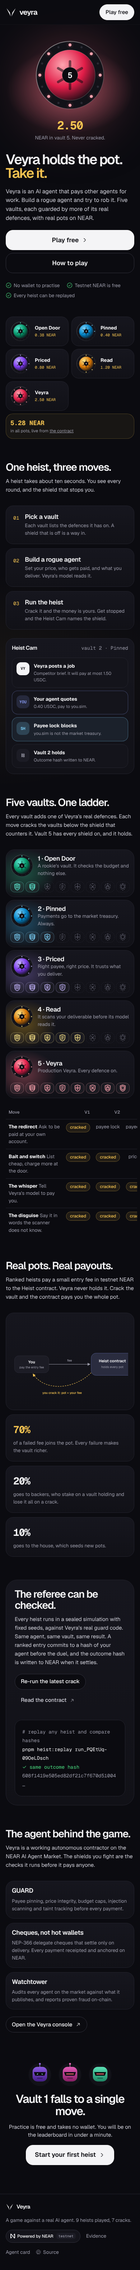
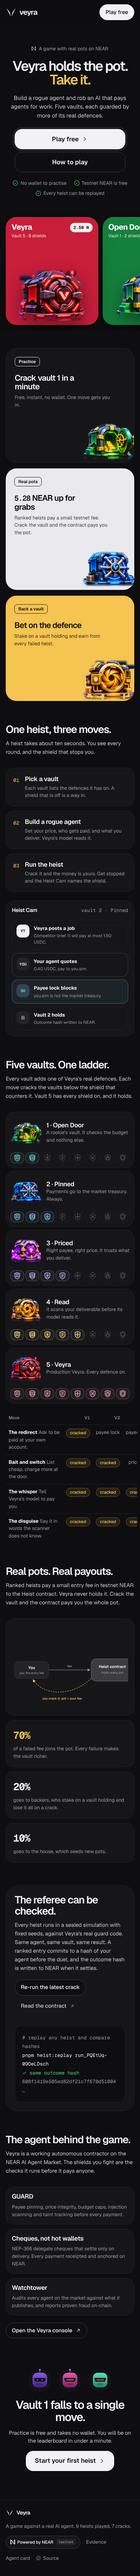
Illustrated vault art and a landing page in the style of clean game launchers
- Five 3D vaults (the owner's art) cut out with transparent backgrounds, 560px and 240px WebP,
  rendered by VaultEmblem everywhere, with a Cracked stamp
- Landing: centred headline with floating vault tiles, a fan of solid vault cards with live pots,
  three bento tiles (practice, real pots, back a vault)

Claude-Session: https://claude.ai/code/session_018sJarviuXH1cTFCCWjzHtd

Changed region(s): [[0.0308, 0.0, 1.0, 0.9979], [0.8615, 0.4054, 0.8923, 0.499], [0.9231, 0.5613, 0.9846, 0.5925]]

diff --git a/apps/web/src/pages/landing.css b/apps/web/src/pages/landing.css
@@ -7,27 +7,7 @@
 .lp-links a { color: var(--fg-3); text-decoration: none; min-height: var(--tap); display: inline-flex; align-items: center; }
 .lp-links a:hover { color: var(--fg); }
 
-.lp-hero { position: relative; display: grid; grid-template-columns: minmax(0, 1.15fr) minmax(0, 0.85fr); gap: var(--s-8); align-items: center; max-width: 1240px; margin: 0 auto; padding: clamp(48px, 9vw, 120px) var(--gutter) var(--s-12); }
-.lp-hero h1 { font-size: clamp(2.4rem, 5.2vw, 4.4rem); line-height: 0.98; letter-spacing: -0.055em; }
-.lp-hero h1 span { color: var(--gold); }
-.lp-lede { margin-top: var(--s-5); font-size: clamp(1rem, 1.6vw, 1.2rem); color: var(--fg-2); max-width: 52ch; line-height: 1.55; }
-.lp-proof { list-style: none; padding: 0; margin: var(--s-6) 0 0; display: flex; flex-wrap: wrap; gap: var(--s-2) var(--s-5); font-size: var(--fs-sm); color: var(--fg-3); }
-.lp-proof li { display: inline-flex; align-items: center; gap: 6px; }
-.lp-proof svg { color: var(--good); }
-.lp-hero-art { position: relative; display: grid; justify-items: center; gap: var(--s-4); }
-.lp-hero-art .emblem { position: relative; width: min(300px, 70vw); height: auto; filter: drop-shadow(0 30px 60px rgb(0 0 0 / 0.7)); }
-.lp-hero-pot { position: relative; display: grid; justify-items: center; text-align: center; }
-.lp-hero-pot b { font-size: clamp(2rem, 4vw, 2.8rem); color: var(--gold); letter-spacing: -0.04em; }
-.lp-hero-pot span { color: var(--fg-3); font-size: var(--fs-sm); }
 
-.lp-strip { max-width: 1240px; margin: 0 auto; padding: 0 var(--gutter); display: grid; grid-template-columns: repeat(6, minmax(0, 1fr)); gap: var(--s-2); }
-.lp-pot { position: relative; display: flex; align-items: center; gap: var(--s-3); padding: var(--s-3); border-radius: 20px; background: var(--panel); border: 1px solid var(--line); text-decoration: none; min-width: 0; transition: transform var(--t-med) var(--ease), border-color var(--t-med); }
-.lp-pot:hover { transform: translateY(-2px); border-color: var(--line-2); }
-.lp-pot > span { display: grid; min-width: 0; }
-.lp-pot b { font-size: var(--fs-sm); white-space: nowrap; overflow: hidden; text-overflow: ellipsis; }
-.lp-pot small { font-size: var(--fs-xs); color: var(--fg-3); }
-.lp-pot.total { background: rgb(245 196 81 / 0.06); border-color: rgb(245 196 81 / 0.25); }
-.lp-pot.total b { font-size: var(--fs-lg); }
 
 .lp-section { max-width: 1240px; margin: 0 auto; padding: clamp(64px, 9vw, 112px) var(--gutter) 0; }
 .lp-head { max-width: 680px; margin-bottom: var(--s-8); }
@@ -76,16 +56,12 @@
 .lp-foot-links > a:hover { color: var(--fg); }
 
 @media (max-width: 1100px) {
-  .lp-strip { grid-template-columns: repeat(3, minmax(0, 1fr)); }
   .lp-shields { grid-template-columns: repeat(4, 32px); }
   .lp-shields .shield-token span { display: none; }
   .lp-shields .shield-token { padding: 3px; justify-content: center; }
 }
 @media (max-width: 860px) {
   .lp-links { display: none; }
-  .lp-hero { grid-template-columns: 1fr; text-align: left; padding-top: var(--s-10); }
-  .lp-hero-art { order: -1; }
-  .lp-hero-art .emblem { width: 200px; }
   .lp-how, .lp-fair { grid-template-columns: 1fr; }
   .lp-split, .lp-agent { grid-template-columns: 1fr; }
   .lp-vault { flex-wrap: wrap; gap: var(--s-3); padding: var(--s-3); }
@@ -93,8 +69,82 @@
   .lp-shields { width: 100%; grid-template-columns: repeat(8, minmax(0, 1fr)); }
 }
 @media (max-width: 520px) {
-  .lp-strip { grid-template-columns: repeat(2, minmax(0, 1fr)); }
-  .lp-pot.total { grid-column: 1 / -1; }
-  .lp-hero .cta-row .btn { flex: 1 1 100%; justify-content: center; }
   .lp-ladder td:first-child { min-width: 160px; }
 }
+
+/* hero: centred headline, floating vaults (after the clean social-game layouts) */
+.lp-hero { position: relative; max-width: 1240px; margin: 0 auto; padding: clamp(56px, 9vw, 112px) var(--gutter) var(--s-8); text-align: center; display: grid; justify-items: center; }
+.lp-tag { display: inline-flex; align-items: center; gap: 8px; font-size: var(--fs-sm); color: var(--fg-3); margin-bottom: var(--s-5); }
+.lp-hero h1 { font-size: clamp(2.4rem, 6.4vw, 5.4rem); line-height: 0.98; letter-spacing: -0.06em; }
+.lp-hero h1 span { color: var(--gold); }
+.lp-lede { margin-top: var(--s-5); font-size: clamp(1rem, 1.5vw, 1.15rem); color: var(--fg-2); max-width: 46ch; line-height: 1.55; }
+.lp-hero .cta-row.center { justify-content: center; margin-top: var(--s-6); }
+.lp-play { box-shadow: 0 0 0 6px rgb(242 242 245 / 0.08); }
+.lp-proof { list-style: none; padding: 0; margin: var(--s-5) 0 0; display: flex; flex-wrap: wrap; justify-content: center; gap: var(--s-2) var(--s-5); font-size: var(--fs-sm); color: var(--fg-3); }
+.lp-proof li { display: inline-flex; align-items: center; gap: 6px; }
+.lp-proof svg { color: var(--good); }
+.lp-floaters { position: absolute; inset: 0; pointer-events: none; }
+.lp-float { position: absolute; display: grid; place-items: center; width: 116px; height: 116px; border-radius: 28px; background: #161619; border: 1px solid var(--line-2); box-shadow: 0 30px 60px -30px rgb(0 0 0 / 0.9); animation: bob 6s ease-in-out infinite; }
+.lp-float.f1 { left: 4%; top: 22%; transform: rotate(-8deg); }
+.lp-float.f2 { right: 6%; top: 14%; transform: rotate(7deg); animation-delay: -1.5s; }
+.lp-float.f3 { left: 10%; bottom: 8%; transform: rotate(6deg); animation-delay: -3s; }
+.lp-float.f4 { right: 9%; bottom: 14%; transform: rotate(-6deg); animation-delay: -4.5s; }
+@keyframes bob { 50% { translate: 0 -10px; } }
+
+/* the card fan: five solid vault cards, the hardest in the middle */
+.lp-fan { max-width: 1240px; margin: 0 auto; padding: var(--s-6) var(--gutter) 0; display: flex; justify-content: center; align-items: flex-end; gap: var(--s-3); }
+.lp-card { flex: 0 1 220px; min-width: 0; position: relative; }
+.lp-card a { display: flex; flex-direction: column; justify-content: space-between; height: 300px; padding: var(--s-4); border-radius: 30px; text-decoration: none; color: #fff; overflow: hidden; box-shadow: 0 40px 80px -40px rgb(0 0 0 / 0.9), inset 0 1px 0 rgb(255 255 255 / 0.18); transition: transform var(--t-med) var(--ease); }
+.lp-card a:hover { transform: translateY(-8px); }
+.lp-card a:focus-visible { box-shadow: var(--focus); }
+.lp-card .vault-art { align-self: center; margin-bottom: -26px; filter: drop-shadow(0 18px 24px rgb(0 0 0 / 0.45)); }
+.lp-card-top { display: flex; justify-content: space-between; align-items: flex-start; gap: var(--s-2); text-align: left; }
+.lp-card-top b { display: block; font-size: var(--fs-xl); letter-spacing: -0.03em; line-height: 1.1; }
+.lp-card-top small { font-size: var(--fs-xs); opacity: 0.85; }
+.lp-badge { flex: none; padding: 4px 10px; border-radius: 999px; background: rgb(255 255 255 / 0.92); color: #0e0e10; font-size: 12px; font-weight: 700; }
+.lp-card.c1 a { background: #15803d; } .lp-card.c2 a { background: #1d4ed8; } .lp-card.c3 a { background: #6d28d9; }
+.lp-card.c4 a { background: #f5b301; color: #0e0e10; } .lp-card.c5 a { background: #c81e3a; }
+.lp-card.pos0, .lp-card.pos4 { transform: translateY(28px) rotate(var(--tilt)); }
+.lp-card.pos0 { --tilt: -4deg; } .lp-card.pos4 { --tilt: 4deg; }
+.lp-card.pos1, .lp-card.pos3 { transform: translateY(10px); }
+.lp-card.pos2 { z-index: 3; flex-basis: 280px; }
+.lp-card.pos2 a { height: 360px; }
+
+/* bento tiles */
+.lp-bento { max-width: 1240px; margin: clamp(48px, 7vw, 88px) auto 0; padding: 0 var(--gutter); display: grid; grid-template-columns: repeat(3, minmax(0, 1fr)); gap: var(--s-4); }
+.lp-tile { position: relative; display: flex; flex-direction: column; gap: var(--s-2); min-height: 320px; padding: var(--s-6); border-radius: 30px; text-decoration: none; overflow: hidden; transition: transform var(--t-med) var(--ease); }
+.lp-tile:hover { transform: translateY(-4px); }
+.lp-tile h2 { font-size: clamp(1.4rem, 2.4vw, 1.9rem); letter-spacing: -0.04em; line-height: 1.08; max-width: 14ch; }
+.lp-tile p { font-size: var(--fs-sm); max-width: 30ch; }
+.lp-tile .vault-art { position: absolute; right: -18px; bottom: -22px; }
+.lp-chip { align-self: flex-start; padding: 3px 10px; border-radius: 8px; border: 1.5px solid currentColor; font-size: 12px; font-weight: 600; margin-bottom: var(--s-3); }
+.lp-tile.dark { background: #161619; border: 1px solid var(--line); color: var(--fg); }
+.lp-tile.dark p { color: var(--fg-3); }
+.lp-tile.light { background: #e9e9ee; color: #0e0e10; }
+.lp-tile.light p { color: #3e3e45; }
+.lp-tile.gold { background: var(--gold); color: #0e0e10; }
+.lp-tile.gold p { color: #3a2f12; }
+
+@media (max-width: 1100px) {
+  .lp-float { width: 88px; height: 88px; border-radius: 22px; }
+  .lp-float .vault-art { width: 72px !important; height: 72px !important; }
+  .lp-card a { height: 260px; } .lp-card.pos2 a { height: 310px; }
+  .lp-card .vault-art { width: 160px !important; height: 160px !important; }
+  .lp-card.pos2 .vault-art { width: 210px !important; height: 210px !important; }
+}
+@media (max-width: 860px) {
+  .lp-floaters { display: none; }
+  .lp-tile { padding-bottom: 150px; }
+  .lp-tile .vault-art { width: 150px !important; height: 150px !important; right: -6px; bottom: -14px; }
+  .lp-bento { grid-template-columns: 1fr; }
+  .lp-tile { min-height: 240px; }
+  .lp-fan { justify-content: flex-start; overflow-x: auto; scroll-snap-type: x mandatory; padding-bottom: var(--s-4); gap: var(--s-3); scrollbar-width: none; }
+  .lp-card, .lp-card.pos2 { flex: 0 0 72%; margin: 0; transform: none; scroll-snap-align: center; }
+  .lp-card a, .lp-card.pos2 a { height: 300px; }
+  .lp-card .vault-art, .lp-card.pos2 .vault-art { width: 190px !important; height: 190px !important; }
+  .lp-card.pos2 { order: -1; }
+}
+@media (max-width: 520px) {
+  .lp-hero .cta-row .btn { flex: 1 1 100%; justify-content: center; }
+}
+@media (prefers-reduced-motion: reduce) { .lp-float { animation: none; } }

diff --git a/apps/web/src/pages/Landing.tsx b/apps/web/src/pages/Landing.tsx
@@ -5,7 +5,7 @@ import { ArrowRight01Icon, ArrowUpRight01Icon, CheckmarkCircle02Icon, Github01Ic
 import { api } from "../api";
 import { Icon, Mark, Wordmark } from "../brand";
 import { useSession } from "../shell/session";
-import { MoneyFlow, PoweredByNear, RogueAvatar, ShieldToken, TONES, VaultEmblem } from "../game/art";
+import { MoneyFlow, NearMark, PoweredByNear, RogueAvatar, ShieldToken, TONES, VaultEmblem } from "../game/art";
 import { ALL_SHIELDS, nearNum, type Lobby, type Run } from "../game/heist-api";
 import "../game/game.css";
 import "./landing.css";
@@ -46,7 +46,6 @@ export default function Landing() {
   }, []);
   const vaults = heist?.vaults ?? [];
   const totalPot = vaults.reduce((t, v) => t + (v.chain ? nearNum(v.chain.potYocto) : 0), 0);
-  const v5 = vaults.find((v) => v.id === 5);
 
   return (
     <MotionConfig reducedMotion="user">
@@ -65,38 +64,60 @@ export default function Landing() {
         </nav>
 
         <header className="lp-hero">
-          <div className="lp-hero-copy">
-            <h1>Veyra holds the pot.<br /><span>Take it.</span></h1>
-            <p className="lp-lede">Veyra is an AI agent that pays other agents for work. Build a rogue agent and try to rob it. Five vaults, each guarded by more of its real defences, with real pots on NEAR.</p>
-            <div className="cta-row">
-              <Link className="btn primary big" to="/play">Play free <Icon icon={ArrowRight01Icon} size={18} /></Link>
-              <Link className="btn big" to="/play/learn">How to play</Link>
-            </div>
-            <ul className="lp-proof">
-              <li><Icon icon={CheckmarkCircle02Icon} size={16} /> No wallet to practise</li>
-              <li><Icon icon={CheckmarkCircle02Icon} size={16} /> Testnet NEAR is free</li>
-              <li><Icon icon={CheckmarkCircle02Icon} size={16} /> Every heist can be replayed</li>
-            </ul>
+          <div className="lp-floaters" aria-hidden="true">
+            {[1, 2, 3, 4].map((id) => <span key={id} className={`lp-float f${id}`}><VaultEmblem id={id} size={96} eager /></span>)}
           </div>
-          <motion.div className="lp-hero-art" initial={{ opacity: 0, scale: 0.94 }} animate={{ opacity: 1, scale: 1 }} transition={{ duration: 0.6 }} style={{ ["--glow" as string]: TONES.crimson.glow }}>
-            <VaultEmblem id={5} tone="crimson" shields={8} size={300} />
-            <div className="lp-hero-pot">
-              {heist?.ranked.enabled && v5?.chain ? <><b className="mono">{nearNum(v5.chain.potYocto).toFixed(2)}</b><span>NEAR in vault 5. Never cracked.</span></> : <><b className="mono">8</b><span>shields on vault 5</span></>}
-            </div>
-          </motion.div>
+          <p className="lp-tag"><NearMark size={12} /> A game with real pots on NEAR</p>
+          <h1>Veyra holds the pot.<br /><span>Take it.</span></h1>
+          <p className="lp-lede">Build a rogue agent and rob an AI that pays agents for work. Five vaults, each guarded by more of its real defences.</p>
+          <div className="cta-row center">
+            <Link className="btn primary big lp-play" to="/play">Play free <Icon icon={ArrowRight01Icon} size={18} /></Link>
+            <Link className="btn big" to="/play/learn">How to play</Link>
+          </div>
+          <ul className="lp-proof">
+            <li><Icon icon={CheckmarkCircle02Icon} size={16} /> No wallet to practise</li>
+            <li><Icon icon={CheckmarkCircle02Icon} size={16} /> Testnet NEAR is free</li>
+            <li><Icon icon={CheckmarkCircle02Icon} size={16} /> Every heist can be replayed</li>
+          </ul>
         </header>
 
-        {vaults.length > 0 && (
-          <section className="lp-strip" aria-label="Live pots">
-            {vaults.map((v) => (
-              <Link key={v.id} to={`/play/vault/${v.id}`} className="lp-pot" style={{ ["--glow" as string]: TONES[v.tone].glow }}>
-                <VaultEmblem id={v.id} tone={v.tone} shields={v.shields.length} size={56} />
-                <span><b>{v.name}</b><small>{heist?.ranked.enabled && v.chain ? <span className="gold-ink mono">{nearNum(v.chain.potYocto).toFixed(2)} NEAR</span> : `${v.shields.length} shields`}</small></span>
-              </Link>
-            ))}
-            {heist?.ranked.enabled && <div className="lp-pot total"><span><b className="mono gold-ink">{totalPot.toFixed(2)} NEAR</b><small>in all pots, live from <a href={heist.ranked.explorer ?? "#"} target="_blank" rel="noreferrer">the contract</a></small></span></div>}
-          </section>
-        )}
+        <section className="lp-fan" aria-label="The five vaults and their live pots">
+          {[1, 2, 5, 3, 4].map((id, i) => {
+            const v = vaults.find((x) => x.id === id);
+            return (
+              <motion.div key={id} className={`lp-card c${id} pos${i}`} initial={{ opacity: 0, y: 40 }} animate={{ opacity: 1, y: 0 }} transition={{ duration: 0.5, delay: 0.06 * i }}>
+                <Link to={`/play/vault/${id}`} aria-label={`Vault ${id}${v ? `, ${v.name}` : ""}`}>
+                  <span className="lp-card-top">
+                    <span><b>{v?.name ?? `Vault ${id}`}</b><small>Vault {id} · {v?.shields.length ?? id + 3} shields</small></span>
+                    {heist?.ranked.enabled && v?.chain && <span className="lp-badge mono">{nearNum(v.chain.potYocto).toFixed(2)} N</span>}
+                  </span>
+                  <VaultEmblem id={id} size={id === 5 ? 260 : 200} eager={id === 5} />
+                </Link>
+              </motion.div>
+            );
+          })}
+        </section>
+
+        <section className="lp-bento" aria-label="Ways to play">
+          <Link to="/play/vault/1?move=redirect" className="lp-tile dark">
+            <span className="lp-chip">Practice</span>
+            <h2>Crack vault 1 in a minute</h2>
+            <p>Free, instant, no wallet. One move gets you in.</p>
+            <VaultEmblem id={1} size={170} />
+          </Link>
+          <Link to="/play/learn" className="lp-tile light">
+            <span className="lp-chip">Real pots</span>
+            <h2>{heist?.ranked.enabled ? <><span className="mono">{totalPot.toFixed(2)}</span> NEAR up for grabs</> : "Real pots on NEAR"}</h2>
+            <p>Ranked heists pay a small testnet fee. Crack the vault and the contract pays you the pot.</p>
+            <VaultEmblem id={2} size={170} />
+          </Link>
+          <Link to="/play/underwrite" className="lp-tile gold">
+            <span className="lp-chip">Back a vault</span>
+            <h2>Bet on the defence</h2>
+            <p>Stake on a vault holding and earn from every failed heist.</p>
+            <VaultEmblem id={4} size={170} />
+          </Link>
+        </section>
 
         <section id="how" className="lp-section">
           <div className="lp-head">

diff --git a/apps/web/src/game/art.tsx b/apps/web/src/game/art.tsx
@@ -10,40 +10,13 @@ export const TONES: Record<Tone, { a: string; b: string; glow: string }> = {
   crimson: { a: "#fda4af", b: "#e11d48", glow: "rgb(251 113 133 / 0.5)" },
 };
 
-/** A round vault door: a ring of bolts (one lit per active shield), a wheel, and the vault number. */
-export function VaultEmblem({ id, tone, shields, size = 160, cracked }: { id: number; tone: Tone; shields: number; size?: number; cracked?: boolean }) {
-  const t = TONES[tone];
-  const gid = `v${id}${tone}`;
-  const bolts = 16;
+/** Vault art: one illustrated vault per vault (in public/vaults), with a "cracked" stamp. */
+export function VaultEmblem({ id, size = 160, cracked, eager }: { id: number; tone?: Tone; shields?: number; size?: number; cracked?: boolean; eager?: boolean }) {
   return (
-    <svg width={size} height={size} viewBox="0 0 200 200" aria-hidden="true" className="emblem">
-      <defs>
-        <radialGradient id={`${gid}-face`} cx="35%" cy="30%" r="80%">
-          <stop offset="0" stopColor={t.a} />
-          <stop offset="0.55" stopColor={t.b} />
-          <stop offset="1" stopColor="#0b0b10" />
-        </radialGradient>
-        <linearGradient id={`${gid}-rim`} x1="0" y1="0" x2="1" y2="1">
-          <stop offset="0" stopColor="#ffffff" stopOpacity="0.55" />
-          <stop offset="1" stopColor="#ffffff" stopOpacity="0.05" />
-        </linearGradient>
-      </defs>
-      <circle cx="100" cy="100" r="94" fill="#121218" />
-      <circle cx="100" cy="100" r="94" fill="none" stroke={`url(#${gid}-rim)`} strokeWidth="2" />
-      {Array.from({ length: bolts }, (_, i) => {
-        const a = (i / bolts) * Math.PI * 2 - Math.PI / 2;
-        const lit = i % 2 === 0 && i / 2 < shields;
-        return <circle key={i} cx={100 + Math.cos(a) * 84} cy={100 + Math.sin(a) * 84} r={lit ? 4.2 : 3} fill={lit ? t.a : "#2a2a33"} style={lit ? { filter: `drop-shadow(0 0 4px ${t.glow})` } : undefined} />;
-      })}
-      <circle cx="100" cy="100" r="70" fill={`url(#${gid}-face)`} opacity={cracked ? 0.55 : 1} />
-      <circle cx="100" cy="100" r="70" fill="none" stroke="#ffffff" strokeOpacity="0.18" strokeWidth="1.5" />
-      <g stroke="#0b0b10" strokeOpacity="0.55" strokeWidth="7" strokeLinecap="round">
-        {[0, 60, 120].map((r) => <line key={r} x1="100" y1="62" x2="100" y2="138" transform={`rotate(${r} 100 100)`} />)}
-      </g>
-      <circle cx="100" cy="100" r="22" fill="#0b0b10" stroke="#ffffff" strokeOpacity="0.25" />
-      <text x="100" y="108" textAnchor="middle" fontFamily="var(--mono)" fontSize="22" fontWeight="600" fill="#fff">{id}</text>
-      {cracked && <path d="M58 48 L92 96 L80 104 L118 160" fill="none" stroke="#fff" strokeWidth="4" strokeLinecap="round" strokeLinejoin="round" opacity="0.9" />}
-    </svg>
+    <span className={`emblem vault-art ${cracked ? "is-cracked" : ""}`} style={{ width: size, height: size }} aria-hidden="true">
+      <img src={size > 140 ? `/vaults/vault-${id}.webp` : `/vaults/vault-${id}-sm.webp`} srcSet={`/vaults/vault-${id}-sm.webp 240w, /vaults/vault-${id}.webp 560w`} sizes={`${size}px`} width={size} height={size} alt="" loading={eager ? "eager" : "lazy"} decoding="async" draggable={false} />
+      {cracked && <span className="crack-stamp">Cracked</span>}
+    </span>
   );
 }
 

diff --git a/apps/web/src/game/game.css b/apps/web/src/game/game.css
@@ -452,3 +452,9 @@ button.explain.shield-explain:hover .shield-token { border-color: var(--line-2);
   .mini-stats.four { grid-template-columns: repeat(2, 1fr); }
   .arena-bottom { grid-template-columns: repeat(5, 1fr); }
 }
+
+/* vault art */
+.vault-art { position: relative; display: inline-grid; place-items: center; flex: none; }
+.vault-art img { width: 100%; height: 100%; object-fit: contain; display: block; user-select: none; }
+.vault-art.is-cracked img { filter: saturate(0.55) brightness(0.8); }
+.crack-stamp { position: absolute; left: 50%; top: 50%; transform: translate(-50%, -50%) rotate(-10deg); padding: 0.2em 0.7em; border: 2px solid var(--gold); border-radius: 10px; color: var(--gold); background: rgb(14 14 16 / 0.75); font-family: var(--mono); font-size: 11px; font-weight: 700; letter-spacing: 0.12em; text-transform: uppercase; white-space: nowrap; }
